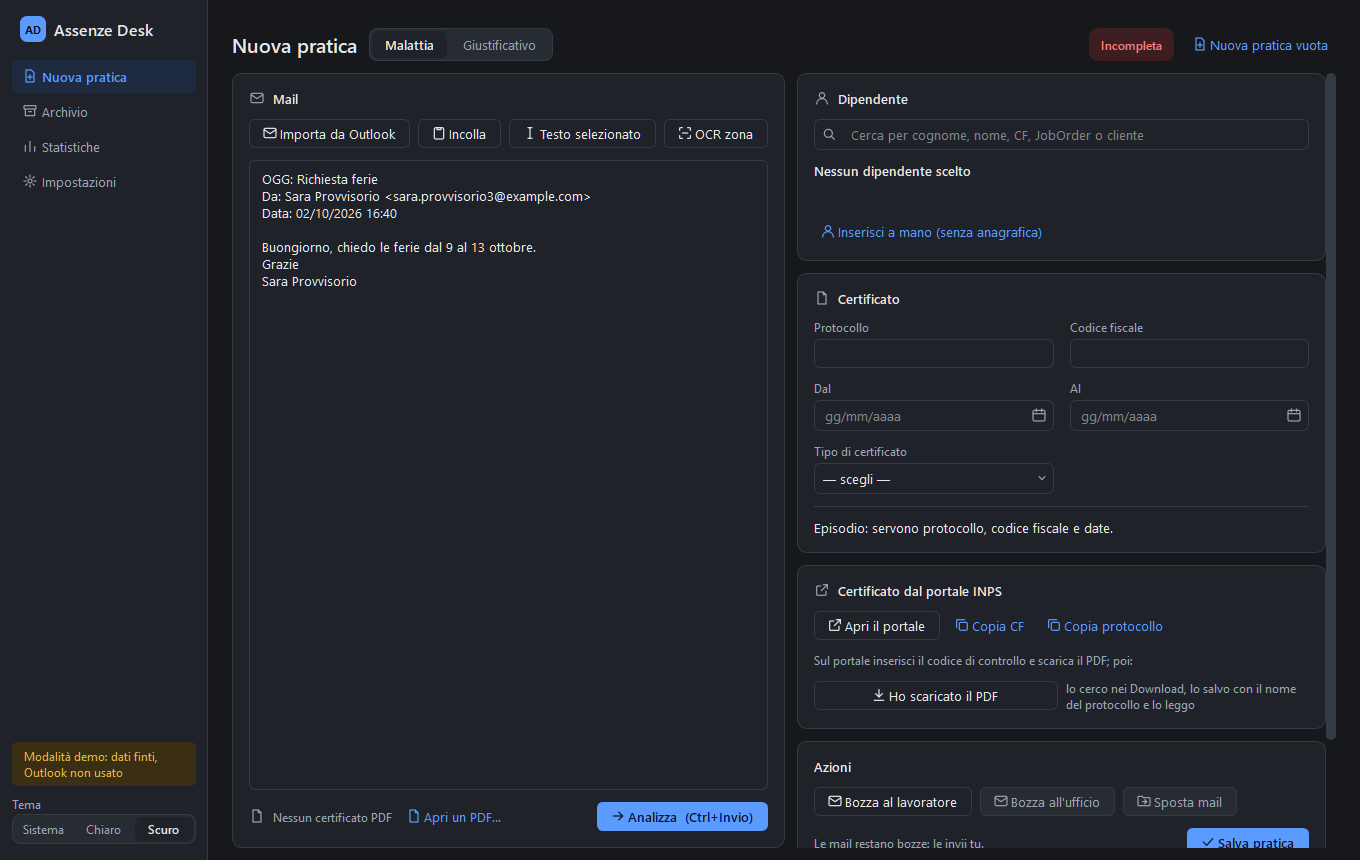
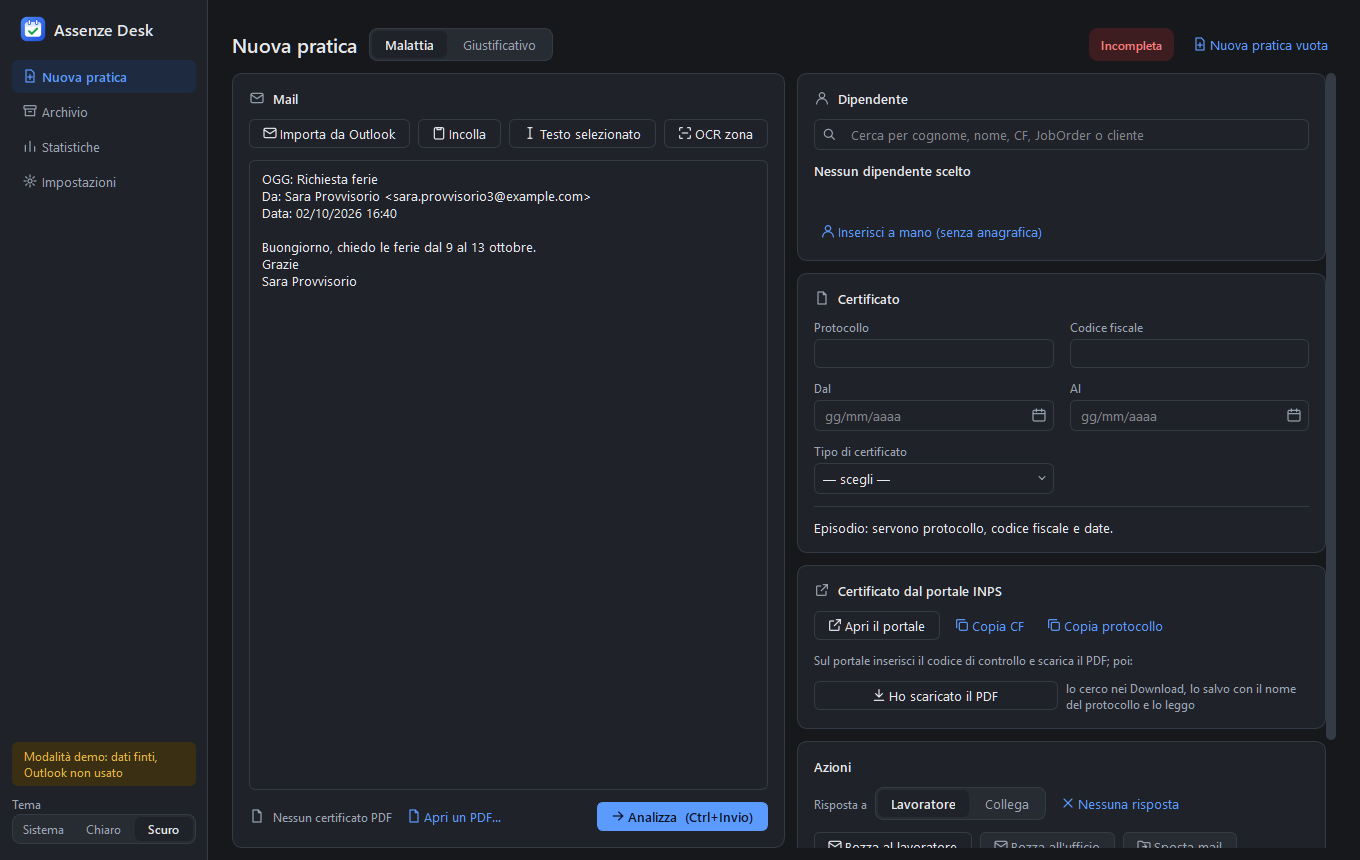
feat(gui): icona dell'app piu' curata, anche nella barra delle applicazioni
Calendario con spunta su blu sfumato, usato anche come logo nella barra
laterale; AppUserModelID proprio per Windows; screenshot del README
rigenerati (D58).

Changed region(s): [[0.5868, 0.907, 0.9882, 0.9977], [0.0, 0.0, 0.0309, 0.0605]]

diff --git a/src/assenze_desk/gui/icone.py b/src/assenze_desk/gui/icone.py
@@ -83,11 +83,18 @@ def pixmap(nome: str, colore: str, lato: int = LATO, scala: float = 2.0) -> QPix
 # Icona dell'app (finestra, eseguibile, collegamento): calendario con spunta su blu
 ICONA_APP_SVG = (
     '<svg xmlns="http://www.w3.org/2000/svg" viewBox="0 0 64 64">'
-    '<rect x="2" y="2" width="60" height="60" rx="14" fill="#2563eb"/>'
-    '<g fill="none" stroke="#ffffff" stroke-width="4.5" stroke-linecap="round" '
-    'stroke-linejoin="round">'
-    '<rect x="14" y="16" width="36" height="32" rx="5"/><path d="M14 26h36M23 11v9M41 11v9"/>'
-    '<path d="M24 37l5 5 11-10"/></g></svg>'
+    '<defs><linearGradient id="sfondo" x1="0" y1="0" x2="1" y2="1">'
+    '<stop offset="0" stop-color="#4f8cff"/><stop offset="1" stop-color="#1d4ed8"/>'
+    "</linearGradient></defs>"
+    '<rect x="2" y="2" width="60" height="60" rx="15" fill="url(#sfondo)"/>'
+    '<rect x="12" y="15" width="40" height="36" rx="7" fill="#ffffff"/>'
+    '<path d="M12 22a7 7 0 0 1 7-7h26a7 7 0 0 1 7 7v4H12z" fill="#dbe7ff"/>'
+    '<rect x="20" y="9" width="6" height="12" rx="3" fill="#ffffff" stroke="#1d4ed8" '
+    'stroke-width="2"/>'
+    '<rect x="38" y="9" width="6" height="12" rx="3" fill="#ffffff" stroke="#1d4ed8" '
+    'stroke-width="2"/>'
+    '<path d="M22.5 37.5l6.5 6.5 13-13" fill="none" stroke="#16a34a" stroke-width="5" '
+    'stroke-linecap="round" stroke-linejoin="round"/></svg>'
 )
 LATI_ICO = (16, 24, 32, 48, 64, 128, 256)
 
@@ -99,6 +106,13 @@ def _immagine_app(lato: int) -> QPixmap:
     pittore.setRenderHint(QPainter.RenderHint.Antialiasing)
     QSvgRenderer(QByteArray(ICONA_APP_SVG.encode())).render(pittore, QRectF(immagine.rect()))
     pittore.end()
+    return immagine
+
+
+def pixmap_app(lato: int, scala: float = 2.0) -> QPixmap:
+    """L'icona dell'app come immagine nitida sugli schermi ad alta densità."""
+    immagine = _immagine_app(round(lato * scala))
+    immagine.setDevicePixelRatio(scala)
     return immagine
 
 

diff --git a/src/assenze_desk/app.py b/src/assenze_desk/app.py
@@ -31,11 +31,21 @@ def argomenti(argv: Sequence[str] | None = None) -> argparse.Namespace:
     return parser.parse_args(argv)
 
 
+def _icona_nella_barra() -> None:
+    """Windows raggruppa le finestre per "AppUserModelID": senza un ID proprio,
+    avviata da Python, la barra delle applicazioni mostrerebbe l'icona di Python."""
+    if sys.platform == "win32":
+        import ctypes
+
+        ctypes.windll.shell32.SetCurrentProcessExplicitAppUserModelID("AssenzeDesk.App")
+
+
 def main(argv: Sequence[str] | None = None) -> int:
     scelte = argomenti(argv)
     app = QApplication.instance() or QApplication(sys.argv[:1])
     app.setApplicationName("Assenze Desk")
     app.setWindowIcon(icone.icona_app())
+    _icona_nella_barra()
     cartella_demo = Path(tempfile.mkdtemp(prefix="assenze-desk-demo-")) if scelte.demo else None
     cartella = cartella_demo or scelte.cartella_dati or cartella_dati_predefinita()
     try:

diff --git a/src/assenze_desk/gui/tema.py b/src/assenze_desk/gui/tema.py
@@ -94,10 +94,6 @@ QMainWindow, QWidget#principale, QStackedWidget, QScrollArea, QScrollArea > QWid
 }
 QFrame#laterale { background: $superficie; border-right: 1px solid $bordo; }
 QLabel#marchio { font-size: 12pt; font-weight: 600; }
-QLabel#logo {
-    background: $accento; color: $accento_testo; border-radius: 7px;
-    font-size: 8pt; font-weight: 700;
-}
 QPushButton[ruolo="voce"] {
     text-align: left; padding: 8px 10px; border: none; border-radius: ${r1}px;
     color: $testo_2; background: transparent;

diff --git a/src/assenze_desk/gui/finestra.py b/src/assenze_desk/gui/finestra.py
@@ -103,10 +103,9 @@ class FinestraPrincipale(QMainWindow):
         layout.setContentsMargins(12, 16, 12, 16)
         layout.setSpacing(2)
 
-        logo = QLabel("AD")
-        logo.setObjectName("logo")
+        logo = QLabel()
+        logo.setPixmap(icone.pixmap_app(26))
         logo.setFixedSize(26, 26)
-        logo.setAlignment(Qt.AlignmentFlag.AlignCenter)
         marchio = QLabel("Assenze Desk")
         marchio.setObjectName("marchio")
         testata = QHBoxLayout()

diff --git a/tests/test_gui_componenti.py b/tests/test_gui_componenti.py
@@ -59,6 +59,7 @@ def test_icone(app):
 
 def test_icona_dell_app_e_file_ico(app, tmp_path):
     assert not icone.icona_app().isNull()
+    assert icone.pixmap_app(26).deviceIndependentSize().width() == 26
     file = icone.scrivi_ico(tmp_path / "app.ico")
     dati = file.read_bytes()
     assert dati[:4] == b"\x00\x00\x01\x00"  # intestazione ICO

diff --git a/docs/DECISIONI.md b/docs/DECISIONI.md
@@ -63,3 +63,4 @@ solo su richiesta dell'utente.
 | D55 | 2026-10-12 | Risposta alla mail di malattia come nella v6.20, ritrovata dopo una domanda dell'utente: lista del cliente (colonna DL dei dipendenti o foglio "Clienti", che vince) sempre in copia nella risposta al lavoratore; risposta dalla casella del cliente (primo indirizzo DL, invio per conto di) se attivata nelle impostazioni, spenta di base; "Risposta a: Lavoratore / Collega" nella scheda Azioni, proposta su Collega quando il mittente ha un dominio interno e non è il lavoratore, con un testo breve configurabile, senza cliente in copia e dalla casella scelta per i colleghi; "Nessuna risposta" segna la risposta come fatta. Regole nel core (`core/risposte.py`). Pratiche di malattia eliminabili dall'Archivio con conferma (i PDF restano) | Erano funzioni in uso nella v6.20 perse nella riscrittura; la scelta del destinatario non è più una finestra che si apre da sola ma una scelta nella schermata, già impostata quando si può capire dal mittente | Finestra Lavoratore/Collega/Non inviare come nella v6.20 (vietata dal brief); risposta sempre dalla casella del cliente (richiede permessi di Outlook che non tutti hanno) |
 | D56 | 2026-10-12 | Pulsante facoltativo "Portale aziendale" nelle Azioni di malattie e giustificativi: nome e indirizzo (https:// oppure percorso di un programma) in Impostazioni > OCR e portali; vuoto = nessun pulsante. Apre soltanto, non compila niente. La versione pubblica resta generica; l'automazione dei programmi interni va in una versione aziendale privata, fuori da questo repo | L'utente apriva il portale interno dalla v6.20. L'indirizzo resta solo nelle impostazioni del PC, quindi il repo non contiene niente di aziendale (D3) | Indirizzo scritto nel codice; compilazione automatica nel repo pubblico |
 | D57 | 2026-10-12 | Installazione con doppio clic: `Installa.cmd` nello zip copia la cartella in `%LOCALAPPDATA%\Programs\AssenzeDesk` (robocopy), sblocca i file scaricati e crea i collegamenti "Assenze Desk" sul Desktop e nel menu Start; si ferma se l'app è aperta; rilanciato fa l'aggiornamento. `Disinstalla.cmd` toglie programma e collegamenti, mai i dati. Icona dell'app (calendario con spunta) disegnata in SVG nel codice e scritta come .ico multi-dimensione al momento della build | L'utente vuole installare sul PC aziendale senza passaggi tecnici; per utente e senza amministratore perché sui PC aziendali spesso non si hanno i diritti; file .cmd leggibili e senza strumenti in più | Installer MSI o Inno Setup (strumenti da installare, spesso servono i diritti di amministratore); zip da estrarre e avviare a mano |
+| D58 | 2026-10-12 | Icona più curata (calendario bianco con spunta verde su blu sfumato), usata anche come logo nella barra laterale al posto di "AD"; AppUserModelID proprio, così la barra delle applicazioni di Windows mostra l'icona dell'app anche avviandola da Python | Richiesta dell'utente: un'icona riconoscibile nella barra delle applicazioni | Icona di Python o di PyInstaller predefinita |
